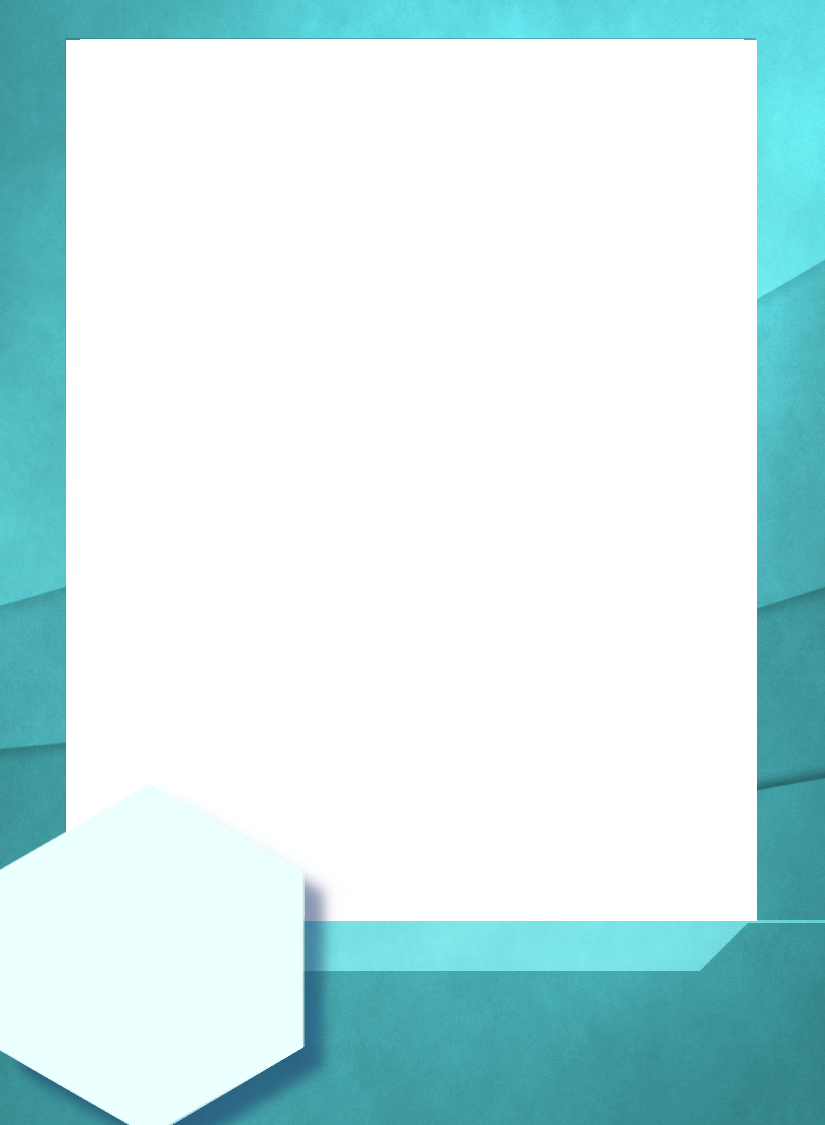
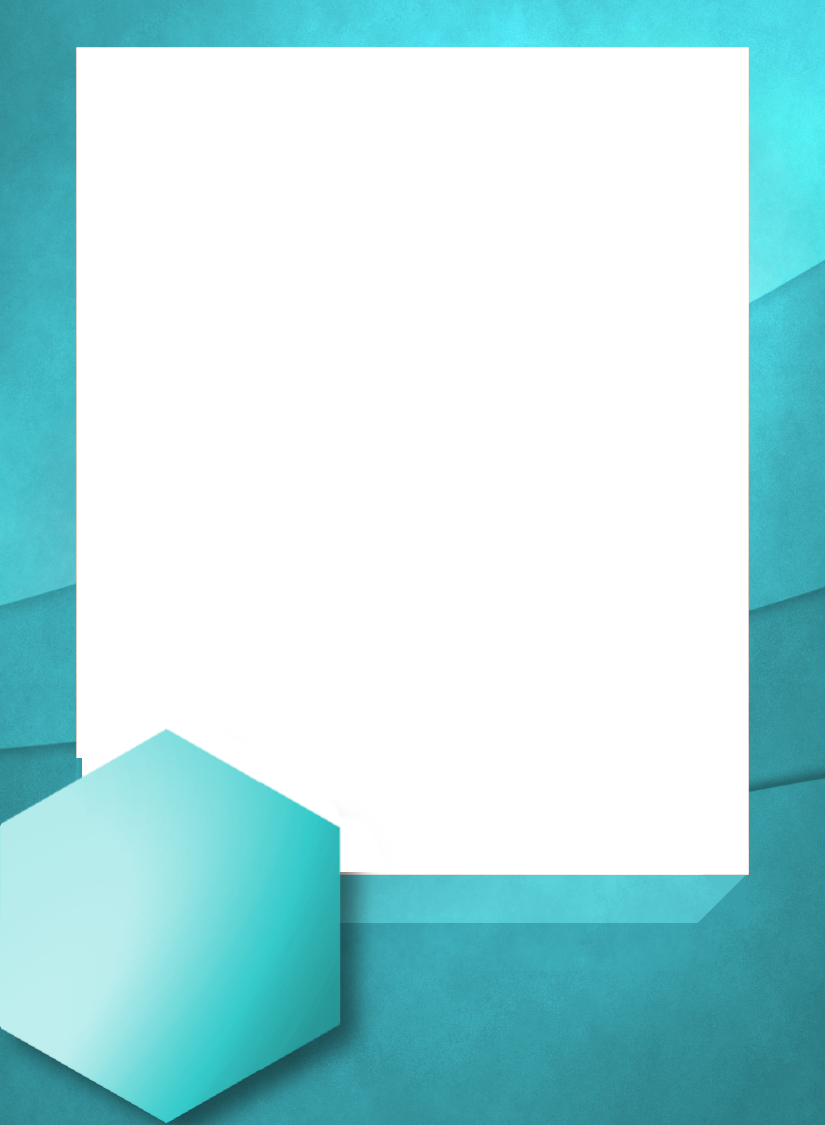
Improve card layout

Changed region(s): [[0.0, 0.0311, 0.9394, 1.0]]

diff --git a/src/components/AddBaseCard.js b/src/components/AddBaseCard.js
@@ -1,8 +1,8 @@
 import { Alert, Button, ButtonGroup, Col, Container, FormControl, Image, InputGroup, ListGroup, Row, ToggleButton } from "react-bootstrap";
 import { AddBaseCardContext, AddBaseCardProvider } from "../contexts/AddBaseCardsContext";
-import TemplateSilver from '../resources/sakata-template-common.png';
-import TemplateEpic from '../resources/sakata-template-epic.png';
-import TemplateGold from '../resources/sakata-template.png';
+import TemplateSilver from '../resources/sakata-silver.png';
+import TemplateEpic from '../resources/sakata-epic.png';
+import TemplateGold from '../resources/sakata-gold.png';
 import TemplateLegend from '../resources/sakata-legend.png';
 import { CubeSpinner } from "react-spinners-kit";
 
@@ -18,19 +18,18 @@ export const style = {
         right: '0',
         padding: '2px',
         lineHeight: '0.7',
-        fontSize: '13px',
+        fontSize: '14px',
         fontFamily: 'Helvetica',
         fontWeight: 'bold'
     },
     overallPower: {
         position: 'absolute',
-        bottom: '0px',
-        left: '1px',
+        bottom: '22px',
+        left: '5px',
         height: '80px',
         width: '77px',
-        lineHeight: '1',
         textAlign: 'center',
-        fontSize: '70px',
+        fontSize: '65px',
         fontFamily: 'Jockey One'
     },
     name: {
@@ -39,27 +38,27 @@ export const style = {
         alignItems: 'center',
         justifyContent: 'center',
         bottom: '0px',
-        left: '75px',
-        fontSize: '26px',
-        fontFamily: 'Jockey One',
+        left: '95px',
+        fontSize: '24px',
+        fontFamily: 'Yanone Kaffeesatz',
         textAlign: 'center',
         verticalAlign: 'middle',
         letterSpacing: '0px',
         lineHeight: '0.8',
-        width: '138px',
-        height: '62px',
+        width: '111px',
+        height: '69px',
     },
     silverFont: {
-        color: '#ebebeb',
-        textShadow: "0 0 2px #ccc, 0 0 3px #ccc, 0 0 10px #111, 0 0 20px #111"
+        color: '#fff',
+        textShadow: "0 0 1px #ccc, 0 0 3px #ccc, 0 0 10px #111, 0 0 20px #111"
     },
     goldFont: {
         color: '#fffbeb',
-        textShadow: "0 0 2px #ffffcc, 0 0 10px #ffcc00, 0 0 15px #ffcc00, 0 0 20px #ffcc00"
+        textShadow: "0 0 1px #fff, 0 0 7px #e6b800, 0 0 12px #e6b800"
     },
     epicFont: {
         color: '#fff',
-        textShadow: "0 0 1px #fff, 0 0 2px #fff, 0 0 15px #ff80ff, 0 0 20px #ff80ff"
+        textShadow: "0 0 1px #fff, 0 0 3px #ff80ff, 0 0 15px #ff80ff, 0 0 20px #ff80ff"
     },
     legendFont: {
         color: '#fff',
@@ -74,14 +73,14 @@ export const style = {
     },
     iconGenre: {
         position: 'absolute',
-        height: '45px',
-        bottom: '5.23rem',
+        height: '50px',
+        bottom: '5.59rem',
         left: '0px'
     },
     iconClass: {
         position: 'absolute',
-        height: '45px',
-        bottom: '129px',
+        height: '50px',
+        bottom: '139px',
         left: '0px'
     }
 }
@@ -132,7 +131,7 @@ export const AddBaseCard = () => (
                                                 backgroundImage: `url(${context.picture})`,
                                                 backgroundPosition: 'center',
                                                 backgroundRepeat: 'no-repeat',
-                                                backgroundSize: '90%',
+                                                backgroundSize: '82%',
                                                 height: '290px',
                                             }} />
                                             <div style={{...context.rarity.fontStyle, ...style.overallPower}}>

diff --git a/src/contexts/AddBaseCardsContext.js b/src/contexts/AddBaseCardsContext.js
@@ -22,10 +22,7 @@ import RomanceGenre from '../resources/genre-romance.png';
 import SciFiGenre from '../resources/genre-scifi.png';
 import SliceOfLifeGenre from '../resources/genre-sliceoflife.png';
 import SportsGenre from '../resources/genre-sports.png';
-import TemplateSilver from '../resources/sakata-template-common.png';
-import TemplateEpic from '../resources/sakata-template-epic.png';
-import TemplateGold from '../resources/sakata-template.png';
-import TemplateLegend from '../resources/sakata-legend.png';
+import TemplateSilver from '../resources/sakata-silver.png';
 
 const classes = [
     { name: 'Fighter', value: '1' },
@@ -254,7 +251,7 @@ const AddBaseCardProvider = component => {
     const generateJpegCard = () => {
         HtmlToImage.toJpeg(sakataCardRef.current, { quality: 0.95 })
             .then(async (dataUrl) => {
-                const filename = `sakata_${character.mal_id}[${rarity.value}].jpeg`;
+                const filename = `sakata_${character.mal_id}_${rarity.value}.jpeg`;
                 const base64Response = await fetch(dataUrl);
                 const blob = await base64Response.blob();
                 const formData = new FormData();

diff --git a/public/index.html b/public/index.html
@@ -41,6 +41,7 @@
 
     <style>
       @import url('https://fonts.googleapis.com/css2?family=Jockey+One&display=swap');
+      @import url('https://fonts.googleapis.com/css2?family=Yanone+Kaffeesatz:wght@500&display=swap');
     </style>
   </head>
   <body>
